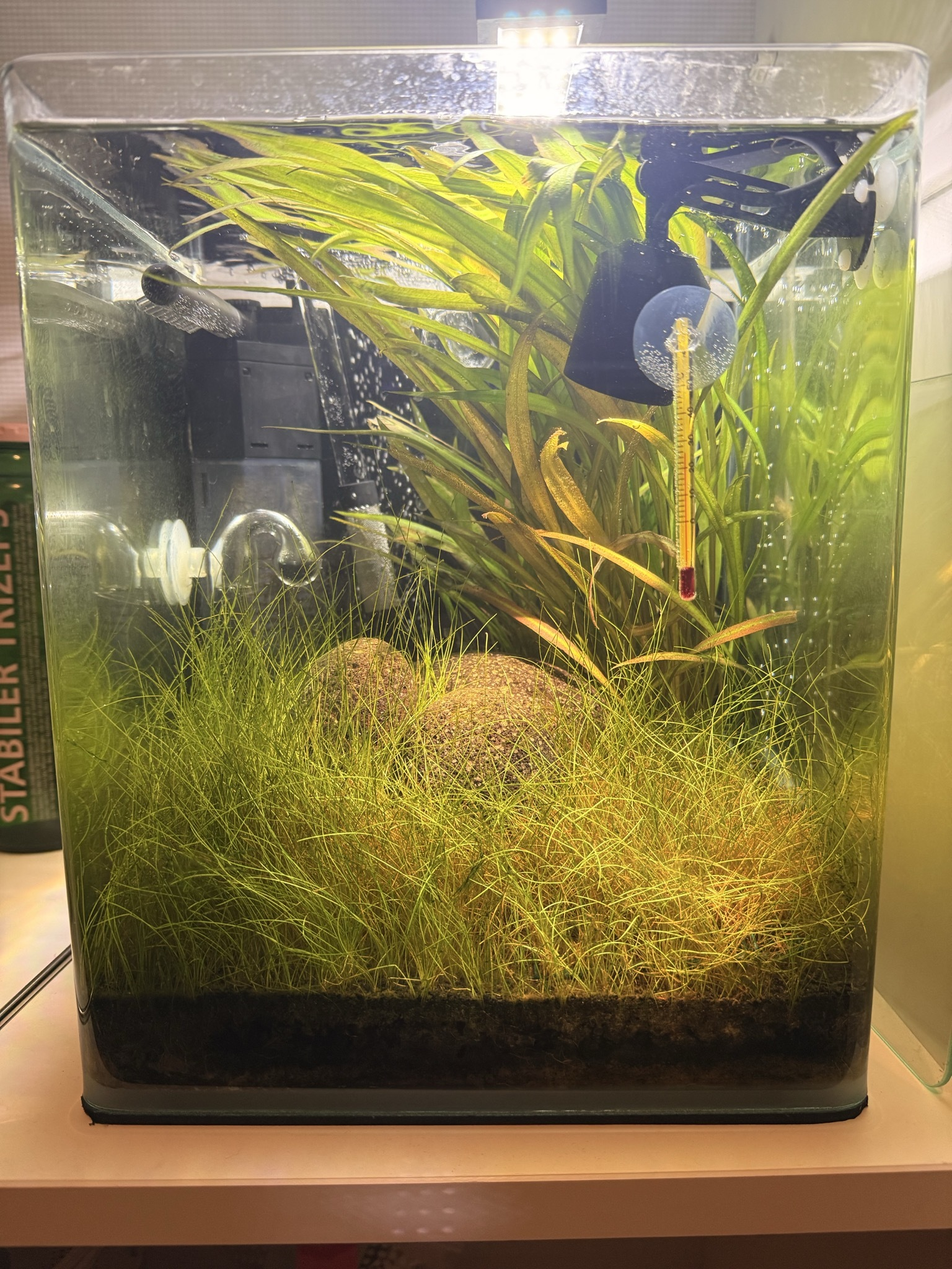
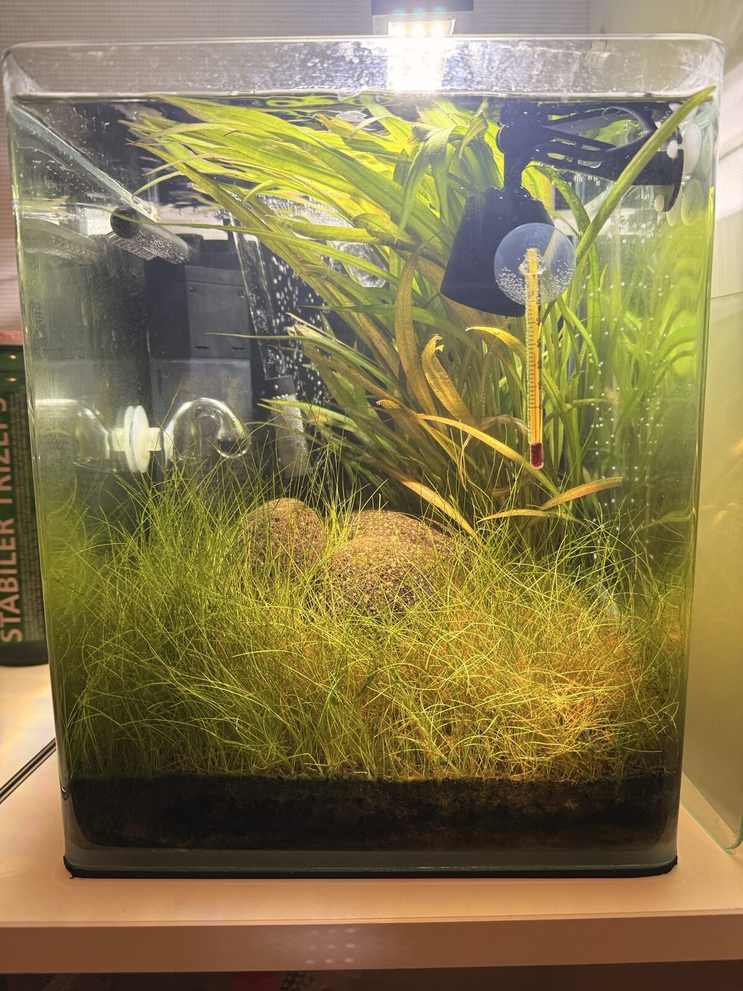
groom: recompress journal photos — repo 13MB → 2.5MB
All six images >500KB recompressed per convention (auto-orient, strip
EXIF, <=1600px, JPEG q82); PNG/JPEG renamed to .jpg with all journal,
README, and convention references updated.

diff --git a/README.md b/README.md
@@ -48,7 +48,7 @@ independent insurance. The repeatedly-clogging internal filter pushed the
 decision to **upgrade to a canister**. And the payoff: the **first baby
 shrimp** was spotted out grazing, confirming brood 1 had survived.
 
-<img src="journal/2026-W21/2026-05-23-as25-bubbles.png" alt="The new airstone running in the back corner" width="480">
+<img src="journal/2026-W21/2026-05-23-as25-bubbles.jpg" alt="The new airstone running in the back corner" width="480">
 
 ### Week of 11 May 2026 — first babies 🦐
 
@@ -57,7 +57,7 @@ miniature shrimplets hiding in the hairgrass — and mum was re-berried with
 brood 2 within a day. Here's the tank at its baseline: Dennerle Nano Cube
 20, hairgrass carpet, sword plant, lava rock and aquasoil.
 
-<img src="journal/2026-W20/2026-05-17-tank-overview.png" alt="Tank overview, 17 May 2026 — the starting baseline" width="480">
+<img src="journal/2026-W20/2026-05-17-tank-overview.jpg" alt="Tank overview, 17 May 2026 — the starting baseline" width="480">
 
 ## Structure
 

diff --git a/AGENTS.md b/AGENTS.md
@@ -60,8 +60,8 @@ This table is the single source for the journal-vs-memory decision
   `date +%G-W%V`. Create the week folder if it doesn't exist.
 - One file per day. Multiple events from the same day → multiple `##`
   sections in the same file.
-- Photos: save to the same folder with `YYYY-MM-DD-slug.png`. Reference
-  inline: `![alt](2026-05-23-as25-bubbles.png)`.
+- Photos: save to the same folder with `YYYY-MM-DD-slug.jpg`. Reference
+  inline: `![alt](2026-05-23-as25-bubbles.jpg)`.
 - Cross-reference any `memory/` updates at the end of each section:
   `→ updated memory/tank.md (Aeration section)`. This keeps the
   projection traceable.

diff --git a/journal/README.md b/journal/README.md
@@ -9,10 +9,10 @@ Append-only history of the tank. The journal is the source of truth for
 journal/
 ├── 2026-W20/                    # ISO week folder (Mon-Sun)
 │   ├── 2026-05-17.md            # one file per day events happened
-│   └── 2026-05-17-tank.png      # photos co-located with their note
+│   └── 2026-05-17-tank.jpg      # photos co-located with their note
 └── 2026-W21/
     ├── 2026-05-22.md
-    └── 2026-05-22-detritus.png
+    └── 2026-05-22-detritus.jpg
 ```
 
 - **Week folders**: ISO week format `YYYY-Www` (e.g. `2026-W21` = May 18-24).

diff --git a/journal/2026-W21/2026-05-22.md b/journal/2026-W21/2026-05-22.md
@@ -32,7 +32,7 @@ in.
 
 ## Detritus webs in back-right corner (midday)
 
-![Detritus webs in the dead corner — front-right, see correction at top](2026-05-22-detritus-front-corner.png)
+![Detritus webs in the dead corner — front-right, see correction at top](2026-05-22-detritus-front-corner.jpg)
 
 Fine wispy stuff draped over hairgrass in the back-right corner. Looks
 spider-web-like. Breaks into dust easily when disturbed. Keeps

diff --git a/journal/2026-W22/2026-05-25.md b/journal/2026-W22/2026-05-25.md
@@ -2,7 +2,7 @@
 
 ## Mystery critters ID'd: ostracods
 
-![Ostracods on the glass — tiny cream-coloured oval/seed shapes](2026-05-25-ostracods-on-glass.jpeg)
+![Ostracods on the glass — tiny cream-coloured oval/seed shapes](2026-05-25-ostracods-on-glass.jpg)
 
 Tom asked about tiny "stick insect looking" glass-clear critters all
 over the tank — Michelle's brother had said they're a sign of a

diff --git a/journal/2026-W21/2026-05-23.md b/journal/2026-W21/2026-05-23.md
@@ -2,7 +2,7 @@
 
 ## AS25 bubbles too coarse
 
-![AS25 producing 2-4mm bubbles, much coarser than ideal](2026-05-23-as25-bubbles.png)
+![AS25 producing 2-4mm bubbles, much coarser than ideal](2026-05-23-as25-bubbles.jpg)
 
 Bubbles from the AS25 are 2-4mm at source — way bigger than ideal.
 Compare to the Chihiros CO2 diffuser which produces ~0.1mm mist. Two

diff --git a/journal/2026-W20/2026-05-17.md b/journal/2026-W20/2026-05-17.md
@@ -25,7 +25,7 @@ than 24h after releasing clutch 1. Normal Neocaridina biology: molts
 
 ## Tank overview photo
 
-![Tank overview](2026-05-17-tank-overview.png)
+![Tank overview](2026-05-17-tank-overview.jpg)
 
 Dennerle Nano Cube 20, ~17L water after substrate. Hairgrass carpet,
 sword plant, lava rocks, aquasoil. Chihiros CO2 with glass diffuser.
